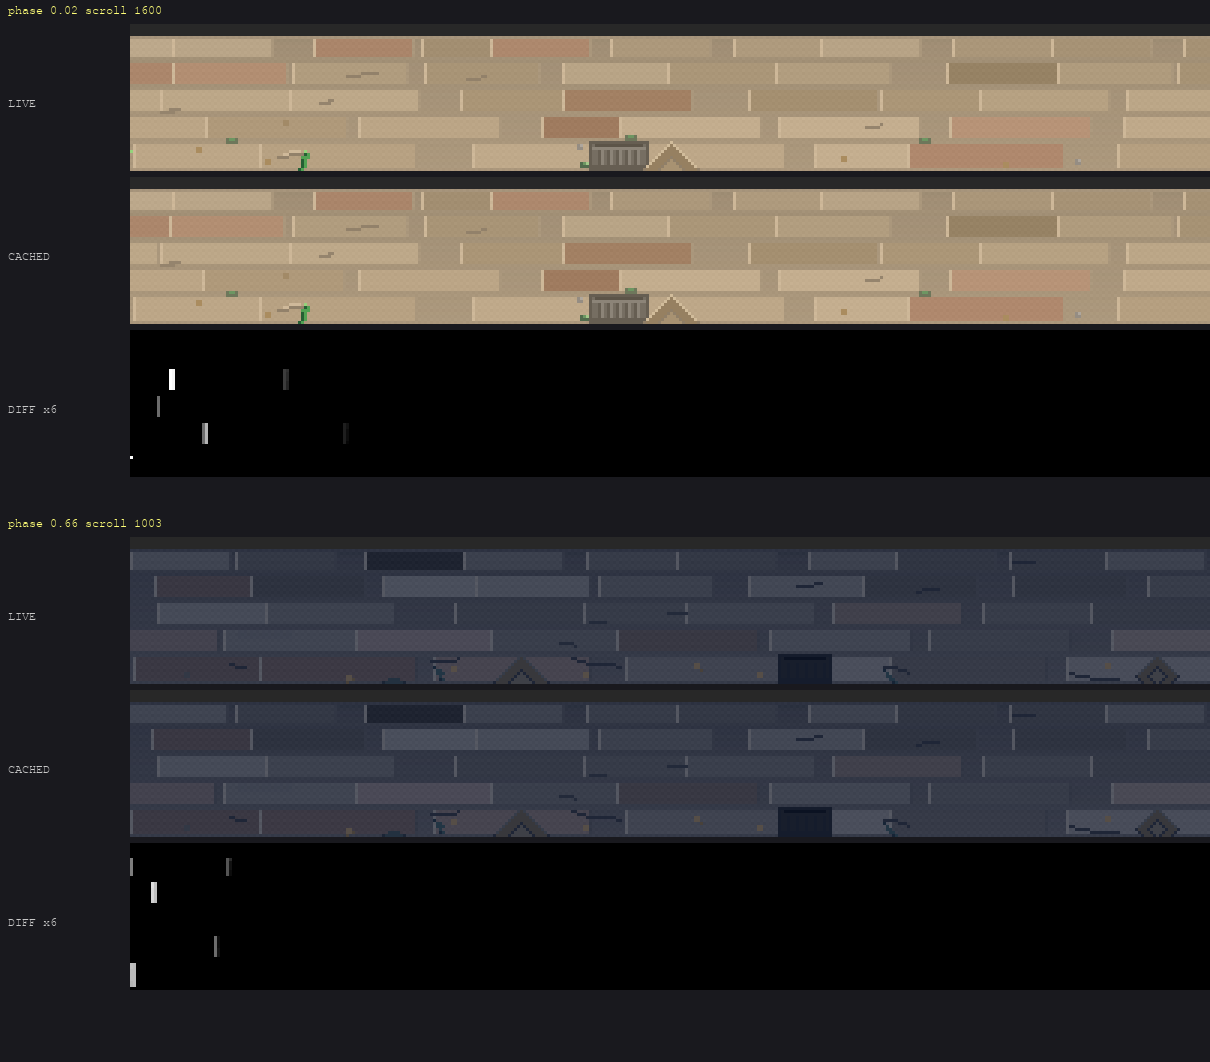
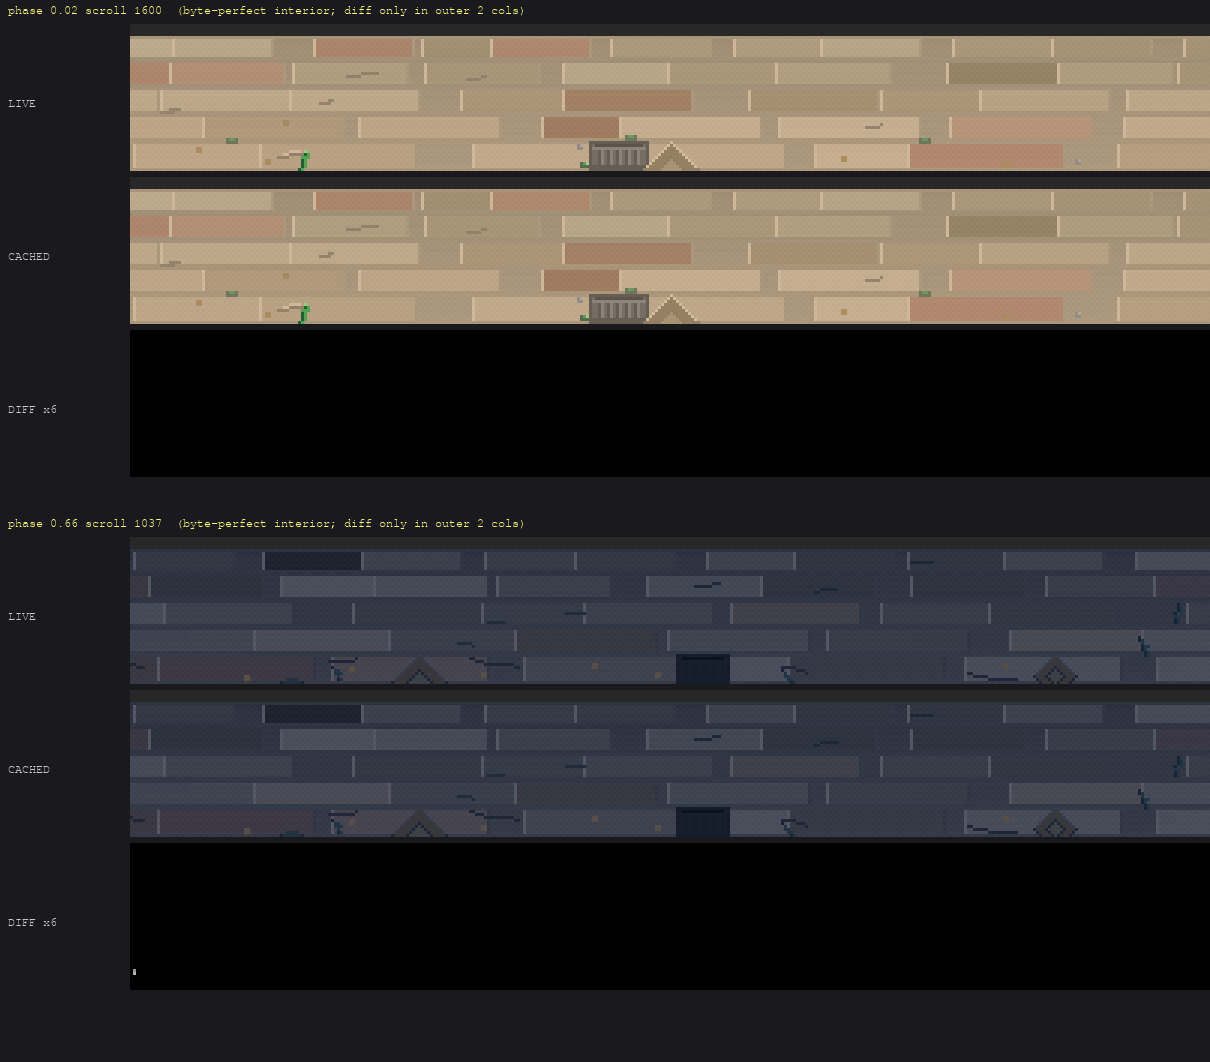
Perf: kill rain + busy-sidewalk frame lag (worst frame 12.8ms -> 6.4ms)
Eliminate per-frame Surface allocations and recompute on the hot path; the
worst-case combined frame (storm/rain weather + night-festival foreground +
coins) drops from ~12.8 ms / ~170 Surface allocs to ~6.4 ms / ~5 allocs native.

- foreground floor + embedded detail: bake the static (world-x, palette-bucket)
  running-bond + detail into a wide strip once and blit at the scroll offset,
  re-baking only on bucket change or when scroll leaves the window. Removes the
  ~250 per-frame draws + ~100k random.Random() seeds. Byte-identical to the live
  draw in the interior (verified across the day cycle); residual differences are
  confined to the outermost 2 screen columns where pygame clips a crack/weed line
  at the edge differently than drawing it whole and cropping via the blit.
- _scatter now floors instead of truncating toward zero, so a mark straddling
  x=0 no longer hops 1px as it crosses the origin and the strip bake is
  origin-invariant.
- weed lit-tip: skip an off-surface pixel instead of clamping it to column 0
  (the clamp smeared a stray green pixel onto the left edge).
- weather wind streaks/swirls draw onto a reused scratch; snow-wash and
  lightning-flash reuse one persistent overlay.
- catenary wires draw via a small reused bounding-box scratch, not a fresh
  full-screen layer per wire.
- near-lane scaled-cast cache keyed on the biome phase bucket (not id(pal)) so it
  survives across frames.
[…]

diff --git a/game/weather.py b/game/weather.py
@@ -213,6 +213,28 @@ SNOW_TINT_PEAK_A = 146
 _WHITE = (255, 255, 255)
 
 
+# A reused scratch surface for the per-particle wind streaks/swirls (each used to
+# allocate a fresh SRCALPHA surface every frame — ~100+ allocations/frame in a
+# storm). Particles draw sequentially, so one shared scratch (cleared per use)
+# serves them all with zero allocations. Grown on demand to the largest bound.
+_SCRATCH = pygame.Surface((1, 1), pygame.SRCALPHA)
+
+
+def _scratch(w, h):
+    global _SCRATCH
+    w = max(1, int(w)); h = max(1, int(h))
+    sw, sh = _SCRATCH.get_size()
+    if w > sw or h > sh:
+        _SCRATCH = pygame.Surface((max(w, sw), max(h, sh)), pygame.SRCALPHA)
+    _SCRATCH.fill((0, 0, 0, 0), (0, 0, w, h))
+    return _SCRATCH
+
+
+# One persistent full-screen overlay reused for the snow-wash + lightning-flash
+# (both fill+blit a transient W×H SRCALPHA surface every active frame).
+_OVERLAY = pygame.Surface((W, H), pygame.SRCALPHA)
+
+
 # Cached soft round snowflake sprites — pre-rendered once per
 # (radius, alpha-bucket) so each flake is a cheap blit of a smooth
 # anti-aliased disc (no per-frame surface building, no aliased
@@ -368,7 +390,7 @@ class _WindStreak:
         oy = min(y1, y2) - 3
         sw = abs(x2 - x1) + 6
         sh = abs(y2 - y1) + 6
-        sub = pygame.Surface((sw, sh), pygame.SRCALPHA)
+        sub = _scratch(sw, sh)
         for i in range(n):
             t0 = i / n
             t1 = (i + 1) / n
@@ -387,7 +409,7 @@ class _WindStreak:
             pygame.draw.line(sub, (255, 255, 255, core_a),
                              (int(sx0 - ox), int(sy0 - oy)),
                              (int(sx1 - ox), int(sy1 - oy)), 1)
-        surf.blit(sub, (ox, oy))
+        surf.blit(sub, (ox, oy), (0, 0, sw, sh))
 
 
 class _WindDrift:
@@ -492,7 +514,7 @@ class _WindSwirl:
         oy = int(min(p[1] for p in pts)) - 4
         sw = int(max(p[0] for p in pts)) - ox + 4
         sh = int(max(p[1] for p in pts)) - oy + 4
-        sub = pygame.Surface((sw, sh), pygame.SRCALPHA)
+        sub = _scratch(sw, sh)
         local_pts = [(int(p[0]) - ox, int(p[1]) - oy) for p in pts]
         for w, col, a_mul in (
             (4, self.color,        0.35),   # outer halo
@@ -503,7 +525,7 @@ class _WindSwirl:
             if a <= 0:
                 continue
             pygame.draw.lines(sub, (*col, a), False, local_pts, w)
-        surf.blit(sub, (ox, oy))
+        surf.blit(sub, (ox, oy), (0, 0, sw, sh))
 
 
 class _WindDust:
@@ -795,9 +817,8 @@ class Weather:
                 col = (int(SNOW_TINT[0] + (SNOW_TINT_WHITE[0] - SNOW_TINT[0]) * wash_t),
                        int(SNOW_TINT[1] + (SNOW_TINT_WHITE[1] - SNOW_TINT[1]) * wash_t),
                        int(SNOW_TINT[2] + (SNOW_TINT_WHITE[2] - SNOW_TINT[2]) * wash_t))
-                wash = pygame.Surface((W, H), pygame.SRCALPHA)
-                wash.fill((*col, a))
-                surf.blit(wash, (0, 0))
+                _OVERLAY.fill((*col, a))
+                surf.blit(_OVERLAY, (0, 0))
         # Snow layers — back-to-front for parallax depth:
         # big drift flakes → bulk flakes → driven streaks →
         # turbulence curls.
@@ -817,6 +838,5 @@ class Weather:
         if self.flash_remaining > 0:
             t = self.flash_remaining / 0.18
             alpha = int(180 * t)
-            flash = pygame.Surface((W, H), pygame.SRCALPHA)
-            flash.fill((210, 220, 255, alpha))
-            surf.blit(flash, (0, 0))
+            _OVERLAY.fill((210, 220, 255, alpha))
+            surf.blit(_OVERLAY, (0, 0))

diff --git a/game/foreground.py b/game/foreground.py
@@ -7,18 +7,64 @@ facade. All procedural; safe on native + web.
 """
 from __future__ import annotations
 
+import pygame
+
 from game.config import W, H, GROUND_Y
+from game import biome
 from game import foreground_floor as _floor
 from game import foreground_detail as _detail
 from game import foreground_promenade as _promenade
 from game import foreground_near_lane as _near
 
 
-def draw_foreground_floor(surf, scroll, pal):
+# The floor + embedded detail are STATIC: a pure function of world-x (scroll) and
+# the biome palette. Recomputing the ~250 draws + ~100k per-cell RNG seeds every
+# frame was the single biggest per-frame cost. Instead we bake a wide strip once
+# per (palette bucket, world window) and just blit it at the scroll offset — the
+# same per-bucket palette quantisation the pillars already use (they bake their
+# palette once at spawn and never re-tint). A generous side margin lets the strip
+# scroll a few hundred px before it must be re-baked.
+_FLOOR_MARGIN = 256
+_FLOOR_STRIP_W = W + 2 * _FLOOR_MARGIN
+# Small headroom above GROUND_Y so the contact lip/shadow is captured too.
+_FLOOR_BAND_TOP = GROUND_Y - 4
+
+_floor_strip = None        # cached pygame.Surface (None until first bake)
+_floor_anchor = 0.0        # world-x mapped to local x=0 of the strip
+_floor_bucket = -1         # biome.phase_bucket the strip was baked for
+
+
+def _bake_floor_strip(scroll, pal, bucket):
+    global _floor_strip, _floor_anchor, _floor_bucket
+    # Anchor on an integer world-x so an integer scroll reproduces the live
+    # render bit-for-bit (the floor ints every position via `int(wx - scroll)`);
+    # a fractional scroll then drifts at most 1px, imperceptibly.
+    anchor = int(round(scroll)) - _FLOOR_MARGIN
+    band_h = H - _FLOOR_BAND_TOP
+    gy_local = GROUND_Y - _FLOOR_BAND_TOP   # where the play-floor band starts
+    strip = pygame.Surface((_FLOOR_STRIP_W, band_h), pygame.SRCALPHA)
+    _floor.fg_swatch_buff_running_bond(strip, _FLOOR_STRIP_W, gy_local, band_h,
+                                       anchor, pal)
+    _detail.add_embedded_detail("buff", strip, _FLOOR_STRIP_W, gy_local, band_h,
+                                anchor, pal)
+    _floor_strip = strip
+    _floor_anchor = anchor
+    _floor_bucket = bucket
+
+
+def draw_foreground_floor(surf, scroll, pal, phase):
     """Paint the buff running-bond sidewalk + its embedded surface detail into
-    the ~45px play-floor band (y=GROUND_Y..H), world-anchored to `scroll`."""
-    _floor.fg_swatch_buff_running_bond(surf, W, GROUND_Y, H, scroll, pal)
-    _detail.add_embedded_detail("buff", surf, W, GROUND_Y, H, scroll, pal)
+    the ~45px play-floor band (y=GROUND_Y..H), world-anchored to `scroll`.
+
+    Served from a cached strip; re-baked only when the palette bucket changes or
+    the scroll leaves the baked window, so the per-frame cost is a single blit."""
+    bucket = biome.phase_bucket(phase)
+    off = scroll - _floor_anchor
+    if (_floor_strip is None or bucket != _floor_bucket
+            or off < 0 or off + W > _FLOOR_STRIP_W):
+        _bake_floor_strip(scroll, pal, bucket)
+        off = scroll - _floor_anchor
+    surf.blit(_floor_strip, (round(-off), _FLOOR_BAND_TOP))
 
 
 def draw_promenade(surf, scroll, pal, phase, t):

diff --git a/game/scenes.py b/game/scenes.py
@@ -18,6 +18,11 @@ from game.hud import HUD, _font
 from game import audio
 from game import play_log
 from game.config import BIRD_X, SCROLL_BASE, SPAWN_GRACE
+
+# One persistent full-screen overlay reused for every play-scene tint
+# (slow-mo / KFC / ghost / hit-flash) so an active effect costs a fill+blit
+# instead of allocating a fresh W x H SRCALPHA surface each frame.
+_SCENE_TINT = pygame.Surface((W, H), pygame.SRCALPHA)
 from game import intro as _intro
 from game.lottery_slot import draw_reveal as _draw_lottery_reveal
 
@@ -1170,7 +1175,7 @@ class App:
         self.world.ambient.draw(surf)
         # The buff sandstone sidewalk IS the play floor now (replaces the grass
         # meadow); promenade props + living cast ride on top of it.
-        foreground.draw_foreground_floor(surf, scroll, palette)
+        foreground.draw_foreground_floor(surf, scroll, palette, phase)
         foreground.draw_promenade(surf, scroll, palette,
                                   self.world.biome_phase, self.world.biome_time)
         foreground.draw_near_lane(surf, scroll, palette,
@@ -1325,23 +1330,20 @@ class App:
         # Slow-mo: subtle violet tint overlay so the player feels the effect
         # even without looking at the HUD.
         if self.world.slowmo_timer > 0:
-            tint = pygame.Surface((W, H), pygame.SRCALPHA)
-            tint.fill((140, 70, 210, 28))
-            self.screen.blit(tint, (0, 0))
+            _SCENE_TINT.fill((140, 70, 210, 28))
+            self.screen.blit(_SCENE_TINT, (0, 0))
 
         # KFC mode: warm amber tint
         if self.world.kfc_timer > 0:
-            tint = pygame.Surface((W, H), pygame.SRCALPHA)
-            tint.fill((210, 120, 10, 20))
-            self.screen.blit(tint, (0, 0))
+            _SCENE_TINT.fill((210, 120, 10, 20))
+            self.screen.blit(_SCENE_TINT, (0, 0))
 
         # Ghost mode: cool blue-white screen tint. The ring around the bird
         # was removed — the SPECTRAL parrot palette + breathing-fade alpha
         # already carry the ghost read.
         if self.world.ghost_timer > 0:
-            tint = pygame.Surface((W, H), pygame.SRCALPHA)
-            tint.fill((140, 180, 255, 18))
-            self.screen.blit(tint, (0, 0))
+            _SCENE_TINT.fill((140, 180, 255, 18))
+            self.screen.blit(_SCENE_TINT, (0, 0))
 
         # LOTTERY reveal: top-left slot-machine cabinet shows the
         # roll for ~2.2 s. Drawn ON TOP of the world tints so the
@@ -1429,9 +1431,8 @@ class App:
 
         if self.world.hit_flash > 0:
             t = self.world.hit_flash / 0.35
-            overlay = pygame.Surface((W, H), pygame.SRCALPHA)
-            overlay.fill((*UI_RED, int(120 * t)))
-            self.screen.blit(overlay, (0, 0))
+            _SCENE_TINT.fill((*UI_RED, int(120 * t)))
+            self.screen.blit(_SCENE_TINT, (0, 0))
 
         if self.state == STATE_MENU:
             self.hud.draw_menu(self.screen, 1 / 60, self.best)

diff --git a/game/foreground_promenade.py b/game/foreground_promenade.py
@@ -45,6 +45,22 @@ from game.ambient import (
 
 GROUND_Y = sp.GROUND_Y  # 595 — the sidewalk top edge; feet rest here.
 
+# A reused bounding-box scratch for the faint catenary wires. Each wire used to
+# allocate a full W×H SRCALPHA layer just to draw a single 1px curve (~7/frame);
+# a small shared scratch sized to the span's bounds keeps the alpha blend but
+# drops the per-wire allocation. Wires draw sequentially, so one buffer serves.
+_WIRE_SCRATCH = pygame.Surface((1, 1), pygame.SRCALPHA)
+
+
+def _wire_scratch(w, h):
+    global _WIRE_SCRATCH
+    w = max(1, int(w)); h = max(1, int(h))
+    sw, sh = _WIRE_SCRATCH.get_size()
+    if w > sw or h > sh:
+        _WIRE_SCRATCH = pygame.Surface((max(w, sw), max(h, sh)), pygame.SRCALPHA)
+    _WIRE_SCRATCH.fill((0, 0, 0, 0), (0, 0, w, h))
+    return _WIRE_SCRATCH
+
 _mix = sp._mix
 _shade = sp._shade
 _clamp = sp._clamp
@@ -190,11 +206,15 @@ def _faint_wire_color(pal):
 
 def _draw_faint_catenary(surf, xl, xr, top_y, sag, steps, pal):
     col = _faint_wire_color(pal)
-    pts = sp._catenary_pts(xl, xr, top_y, sag, steps)
-    layer = pygame.Surface((surf.get_width(), surf.get_height()), pygame.SRCALPHA)
+    pts = [(int(x), int(y)) for x, y in sp._catenary_pts(xl, xr, top_y, sag, steps)]
+    ox = min(p[0] for p in pts) - 1
+    oy = min(p[1] for p in pts) - 1
+    sw = max(p[0] for p in pts) - ox + 2
+    sh = max(p[1] for p in pts) - oy + 2
+    layer = _wire_scratch(sw, sh)
     pygame.draw.lines(layer, (*col, 150), False,
-                      [(int(x), int(y)) for x, y in pts], 1)
-    surf.blit(layer, (0, 0))
+                      [(x - ox, y - oy) for x, y in pts], 1)
+    surf.blit(layer, (ox, oy), (0, 0, sw, sh))
 
 
 def _garland_faint(surf, w, scroll, pal, *, top_y, period=120, sag=24,

diff --git a/game/entities.py b/game/entities.py
@@ -1891,6 +1891,22 @@ class Ramp:
                          (x1 - 1, y0 - 1), 1)
 
 
+# Pre-rendered coin-sparkle dot, cached per alpha bucket -- the twinkle used to
+# allocate a fresh 6x6 SRCALPHA surface per sparkle (~100/frame in a coin rush).
+_SPARKLE_CACHE: dict = {}
+
+
+def _sparkle_sprite(alpha):
+    a = max(8, min(255, (int(alpha) // 8) * 8))
+    spr = _SPARKLE_CACHE.get(a)
+    if spr is None:
+        spr = pygame.Surface((6, 6), pygame.SRCALPHA)
+        pygame.draw.circle(spr, (255, 250, 220, a), (3, 3), 2)
+        pygame.draw.circle(spr, (255, 255, 255, a), (3, 3), 1)
+        _SPARKLE_CACHE[a] = spr
+    return spr
+
+
 class Coin:
     """Spinning gold parrot medallion. Built once at 4x super-sample with a
     bold dark outline + vertical gold gradient + embossed parrot + soft
@@ -1955,10 +1971,7 @@ class Coin:
                 t = 0.5 + 0.5 * math.sin(self.float_t * 3.0 + phase)
                 if t > 0.7:
                     a = int(255 * (t - 0.7) / 0.3)
-                    star = pygame.Surface((6, 6), pygame.SRCALPHA)
-                    pygame.draw.circle(star, (255, 250, 220, a), (3, 3), 2)
-                    pygame.draw.circle(star, (255, 255, 255, a), (3, 3), 1)
-                    surf.blit(star, (cx + dx - 3, cy + dy - 3))
+                    surf.blit(_sparkle_sprite(a), (cx + dx - 3, cy + dy - 3))
 
 
 # ── PowerUp ──────────────────────────────────────────────────────────────────

diff --git a/game/pillar_variants.py b/game/pillar_variants.py
@@ -147,14 +147,30 @@ def draw_stupa(surf, cx, base_y):
     pygame.draw.polygon(surf, (220, 180, 60), [(cx, base_y - 22), (cx - 3, base_y - 18), (cx + 3, base_y - 18)])
 
 
+_INCENSE_CACHE: dict = {}
+
+
+def _incense_smoke_sprite(length):
+    """The incense wisp is a fixed sin-curve fade (no time/palette input), so it
+    bakes once per `length` rather than allocating ~`length` tiny surfaces every
+    call (this ran ~32 allocations/frame across the night braziers)."""
+    spr = _INCENSE_CACHE.get(length)
+    if spr is None:
+        spr = pygame.Surface((8, length + 1), pygame.SRCALPHA)
+        ry = length - 1
+        puff = pygame.Surface((4, 2), pygame.SRCALPHA)
+        for i in range(length):
+            t = i / max(1, length)
+            off = int(math.sin(t * 6) * 2)
+            a = int(140 * (1 - t))
+            puff.fill((230, 230, 230, a))
+            spr.blit(puff, (off + 2, ry - i))
+        _INCENSE_CACHE[length] = spr
+    return spr
+
+
 def draw_incense_smoke(surf, x, y, length=20):
-    for i in range(length):
-        t = i / max(1, length)
-        off = int(math.sin(t * 6) * 2)
-        a = int(140 * (1 - t))
-        s = pygame.Surface((4, 2), pygame.SRCALPHA)
-        s.fill((230, 230, 230, a))
-        surf.blit(s, (x + off - 2, y - i))
+    surf.blit(_incense_smoke_sprite(length), (x - 4, y - (length - 1)))
 
 
 def draw_bird_sil(surf, cx, cy, size=5):

diff --git a/game/foreground_near_lane.py b/game/foreground_near_lane.py
@@ -211,7 +211,12 @@ def _scaled_cast(surf, cast_fn, sx, pal, scale, *, t=0.0, feet_y=NEAR_GROUND_Y, 
     blit so the scaled feet land on `feet_y`. The cast fns read pr.GROUND_Y; we
     point that at the scratch deck while baking so the figure crops cleanly."""
     tb = int(t * _CAST_FPS)              # quantise the gait clock -> bounded cache
-    key = (cast_fn.__name__, round(scale, 3), id(pal), tb, tuple(sorted(kw.items())))
+    # Key on the biome phase BUCKET (set per frame by draw_near_lane), not id(pal):
+    # the play palette is a fresh dict every frame, so id(pal) only ever hit within
+    # a frame -- bucketing lets the bake survive across frames (the same per-bucket
+    # palette quantisation the pillars/floor already use).
+    key = (cast_fn.__name__, round(scale, 3), pr._CUR_BUCKET, tb,
+           tuple(sorted(kw.items())))
     big = _CAST_CACHE.get(key)
     if big is None:
         scratch = pygame.Surface((_SCRATCH_W, _SCRATCH_H), pygame.SRCALPHA)

diff --git a/game/foreground_detail.py b/game/foreground_detail.py
@@ -228,9 +228,13 @@ def _weeds(surf, w, top_y, region_h, scroll, front, back, mortar, night,
                 flick = srng.choice((-2, -1, 1, 2))
                 pygame.draw.line(surf, fol_mid, (jx, jy), (jx + flick, jy - 1), 1)
             # A tiny lit tip on the nearest weeds in daylight (foliage top, capped).
+            # Skip (don't clamp) an off-surface tip: clamping smeared a spurious
+            # green pixel onto the left edge for weeds scrolling off, and that
+            # edge-only artifact also broke the strip-cache's origin invariance.
             if depth_t > 0.7 and night < 0.55:
-                surf.set_at((max(0, min(w - 1, tip[0])),
-                             max(0, min(639, tip[1]))), fol_top)
+                tx, ty = tip
+                if 0 <= tx < w and 0 <= ty < surf.get_height():
+                    surf.set_at((tx, ty), fol_top)
 
 
 def _moss(surf, w, top_y, region_h, scroll, front, back, mortar, night,

diff --git a/game/foreground_floor.py b/game/foreground_floor.py
@@ -62,7 +62,11 @@ def _scatter(scroll, w, speed, step, seed_off, margin=24):
     for k in range(first, last + 1):
         rng = random.Random((k * 2654435761 ^ seed_off) & 0xFFFFFFFF)
         wx = k * step + rng.uniform(-step * 0.25, step * 0.25)
-        sx = int(wx - phase)
+        # floor (not int truncation): truncation rounds toward zero, so a mark
+        # straddling x=0 hops 1px as it crosses the origin AND lands differently
+        # when the same world content is baked at a shifted origin. floor is
+        # origin-invariant, so a strip baked at any anchor matches the live draw.
+        sx = math.floor(wx - phase)
         if -left < sx < w + margin:
             yield sx, k, rng
 
